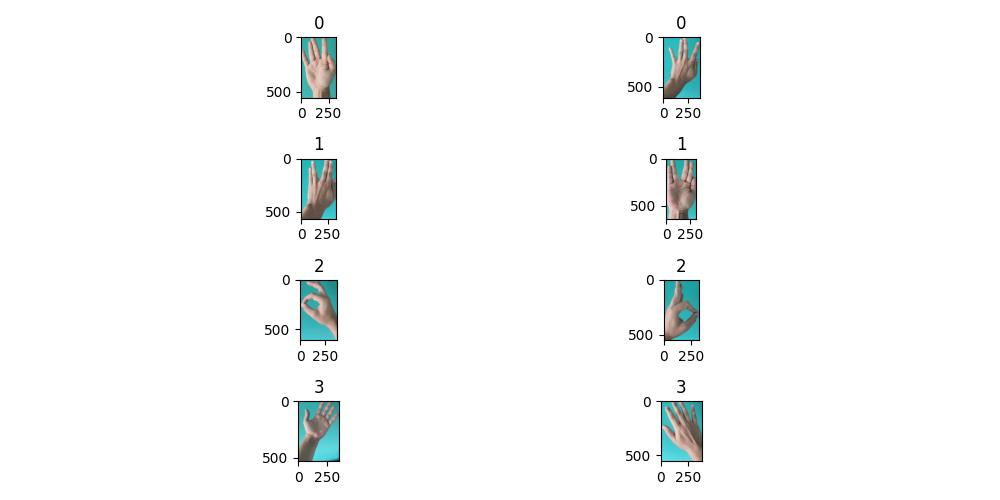
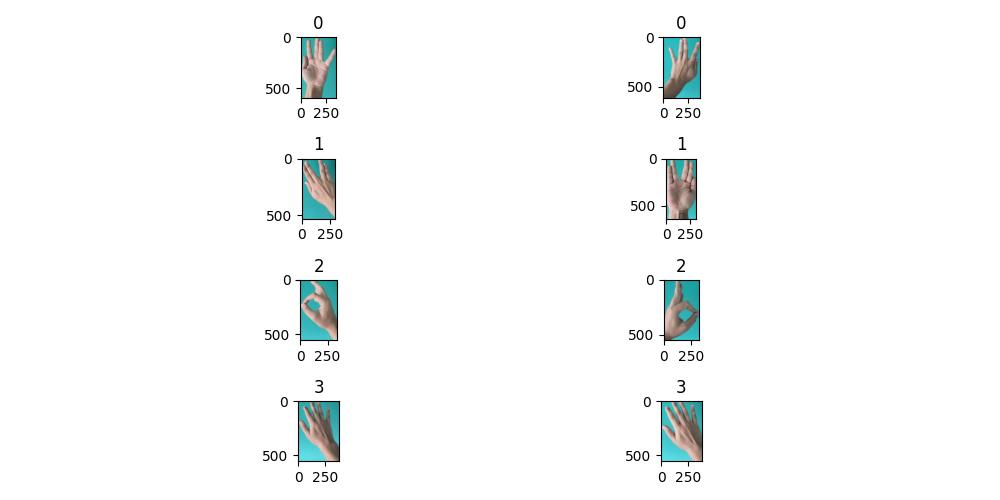
Performance: Improve SVM; Feature: KNN

diff --git a/main.py b/main.py
@@ -2,6 +2,7 @@ import src.database as database
 import src.features as features
 import src.classification as classification
 import src.helpers as helpers
+from sklearn.utils import shuffle
 
 # ___________________________________________
 # PARAMETERS
@@ -15,25 +16,35 @@ percent = 8
 # ___________________________________________
 if __name__ == '__main__':
     # get data
-    dataset_train, labels_train, dataset_test, labels_test, number_classes = database.get_train_and_test_dataset(data_dir, percent, scale_factor)
-    # database.dataset_visualisation(dataset_train, labels_train, dataset_test, labels_test, number_classes, percent)
+    dataset_train, labels_train, dataset_test, labels_test, number_classes = database.get_train_and_test_dataset(
+        data_dir, percent, scale_factor)
+    # database.dataset_visualisation(dataset_train, labels_train, dataset_test, labels_test, number_classes, percent, '', False)
 
-    # mask visualisation
+    # mask
     dataset_train_mask, dataset_test_mask = database.dataset_mask(dataset_train, dataset_test)
-    # database.dataset_visualisation(dataset_train_mask, labels_train, dataset_test_mask, labels_test, number_classes, percent, '_mask')
+    # database.dataset_visualisation(dataset_train_mask, labels_train, dataset_test_mask, labels_test, number_classes, percent, '_mask', False)
 
     # find contours and crop
-    dataset_train_mask_contour, dataset_train_contour, dataset_test_mask_contour, dataset_test_contour = database.dataset_contours(dataset_train_mask, dataset_test_mask, dataset_train, dataset_test)
-    # database.dataset_visualisation(dataset_train_mask_contour, labels_train, dataset_test_mask_contour, labels_test, number_classes, percent, '_mask_contour')
-    # database.dataset_visualisation(dataset_train_contour, labels_train, dataset_test_contour, labels_test, number_classes, percent, '_contour')
+    dataset_train_mask_contour, dataset_train_contour, dataset_test_mask_contour, dataset_test_contour = database.dataset_contours(
+        dataset_train_mask, dataset_test_mask, dataset_train, dataset_test)
+    # database.dataset_visualisation(dataset_train_mask_contour, labels_train, dataset_test_mask_contour, labels_test, number_classes, percent, '_mask_contour', False)
+    # database.dataset_visualisation(dataset_train_contour, labels_train, dataset_test_contour, labels_test, number_classes, percent, '_contour', False)
 
     # compute HOG on dataset train original cropped
-    width, height = helpers.get_dimensions_for_resize(dataset_train_contour, dataset_test_contour)
-    train_features, train_images_hog = features.extract_features_hog(dataset_train_contour, width, height, False)
-    test_features, test_images_hog = features.extract_features_hog(dataset_test_contour, width, height, False)
+    # width, height = helpers.get_dimensions_for_resize(dataset_train_contour, dataset_test_contour)
+    width, height = 128, 256
+    train_features, train_images_hog = features.extract_features_hog(dataset_train_mask_contour, width, height, False)
+    test_features, test_images_hog = features.extract_features_hog(dataset_test_mask_contour, width, height, False)
+
+    # random data
+    train_features, labels_train = shuffle(train_features, labels_train)
+    test_features, labels_test = shuffle(test_features, labels_test)
 
     # classification with SVM
-    clf = classification.svm_classification(train_features, labels_train)
+    classification.svm_classification(train_features, labels_train, test_features, labels_test)
 
-    # prediction
-    classification.prediction(clf, test_features, labels_test)
+    # classification with KNN
+    classification.knn_classification(train_features, labels_train, test_features, labels_test)
+
+    # classification with K Means
+    classification.kmeans_classification(train_features, labels_train, test_features, labels_test)

diff --git a/src/classification.py b/src/classification.py
@@ -1,26 +1,90 @@
 from sklearn import svm
-from sklearn.metrics import accuracy_score
+from sklearn.metrics import accuracy_score, confusion_matrix, ConfusionMatrixDisplay
 import numpy as np
+from sklearn.neighbors import KNeighborsClassifier
+import matplotlib.pyplot as plt
+from sklearn.cluster import KMeans
 
 
-def svm_classification(train_features, labels_train):
+def svm_classification(train_features, labels_train, test_features, labels_test):
     # set parameters for SWM
-    clf = svm.SVC(C=1, kernel='rbf', verbose=True)
+    clf = svm.SVC(C=1, kernel='rbf', verbose=False, gamma='scale')
 
     # train step
     clf.fit(train_features, labels_train)
 
-    # return clf
-    print('SVM classification done')
-    return clf
-
-
-def prediction(clf, test_features, labels_test):
+    # prediction
     predictions = clf.predict(test_features)
 
     acc = accuracy_score(labels_test, predictions)
+    print('Prediction accuracy SVM:', acc * 100, '%')
 
-    print('Prediction accuracy:', acc * 100, '%')
-    return predictions, acc
+    # confusion matrix display
+    cmx = confusion_matrix(labels_test, predictions, normalize='true')
+    disp = ConfusionMatrixDisplay(confusion_matrix=cmx, display_labels=[0, 1, 2, 3])
 
-# + NN
+    fig, ax = plt.subplots(figsize=(10, 10))
+    fig.suptitle('Confusion matrix', fontsize=20)
+    plt.xlabel('True label', fontsize=12)
+    plt.ylabel('Predicted label', fontsize=12)
+    disp.plot(ax=ax)
+    # plt.show()
+    plt.savefig('results/confusion-matrix-svm.png')
+
+    print('SVM classification done')
+
+
+def knn_classification(train_features, labels_train, test_features, labels_test):
+    # KNN
+    classifier = KNeighborsClassifier(n_neighbors=5, metric='minkowski', p=2, algorithm='brute', weights='uniform')
+    classifier.fit(train_features, labels_train)
+
+    # predict
+    predictions = classifier.predict(test_features)
+
+    acc = accuracy_score(labels_test, predictions)
+    print('Prediction accuracy KNN:', acc * 100, '%')
+
+    # confusion matrix display
+    cmx = confusion_matrix(labels_test, predictions, normalize='true')
+    disp = ConfusionMatrixDisplay(confusion_matrix=cmx, display_labels=[0, 1, 2, 3])
+
+    fig, ax = plt.subplots(figsize=(10, 10))
+    fig.suptitle('Confusion matrix', fontsize=20)
+    plt.xlabel('True label', fontsize=12)
+    plt.ylabel('Predicted label', fontsize=12)
+    disp.plot(ax=ax)
+    # plt.show()
+    plt.savefig('results/confusion-matrix-knn.png')
+
+    print('KNN classification done')
+
+
+def kmeans_classification(train_features, labels_train, test_features, labels_test):
+    # K Means
+    classifier = KMeans(n_clusters=4, n_init=3, algorithm='lloyd', verbose=False)
+    classifier.fit(train_features)
+
+    # predict train & test
+    predictions_train = classifier.predict(train_features)
+    predictions_test = classifier.predict(test_features)
+
+    acc = accuracy_score(labels_train, predictions_train)
+    print('Prediction accuracy K Means (train):', acc * 100, '%')
+
+    acc = accuracy_score(labels_test, predictions_test)
+    print('Prediction accuracy K Means (test):', acc * 100, '%')
+
+    # confusion matrix display
+    cmx = confusion_matrix(labels_test, predictions_test, normalize='true')
+    disp = ConfusionMatrixDisplay(confusion_matrix=cmx, display_labels=[0, 1, 2, 3])
+
+    fig, ax = plt.subplots(figsize=(10, 10))
+    fig.suptitle('Confusion matrix', fontsize=20)
+    plt.xlabel('True label', fontsize=12)
+    plt.ylabel('Predicted label', fontsize=12)
+    disp.plot(ax=ax)
+    # plt.show()
+    plt.savefig('results/confusion-matrix-kmeans.png')
+
+    print('K Means classification done')

diff --git a/src/features.py b/src/features.py
@@ -3,6 +3,7 @@ from skimage import exposure
 import matplotlib.pyplot as plt
 from skimage.transform import resize
 
+
 def extract_features_hog(dataset, width, height, example=False):
     images_hog = []
     features = []
@@ -12,8 +13,8 @@ def extract_features_hog(dataset, width, height, example=False):
         # set same dimensions and HOG will return same dimension of features
         image = resize(image, [height, width])
 
-        fd, hog_image = hog(image, orientations=9, pixels_per_cell=(8, 8),
-                            cells_per_block=(2, 2), visualize=True, channel_axis=-1)
+        fd, hog_image = hog(image, orientations=8, pixels_per_cell=(4, 4),
+                            cells_per_block=(2, 2), visualize=True) #, channel_axis=-1
 
         images_hog.append(hog_image)
         features.append(fd)
@@ -23,7 +24,7 @@ def extract_features_hog(dataset, width, height, example=False):
         fig, (ax1, ax2) = plt.subplots(1, 2, figsize=(8, 4))
 
         ax1.axis('off')
-        ax1.imshow(dataset[0], cmap='gray')
+        ax1.imshow(resize(dataset[0], [height, width]), cmap='gray')
         ax1.set_title('Input image')
 
         # Rescale histogram for better display
@@ -32,7 +33,7 @@ def extract_features_hog(dataset, width, height, example=False):
         ax2.axis('off')
         ax2.imshow(hog_image_rescaled, cmap=plt.cm.gray)
         ax2.set_title('Histogram of Oriented Gradients')
-        plt.show()
+        # plt.show()
         fig.savefig('results/hog_hands_example.jpg')
 
     print('HOG done')

diff --git a/src/helpers.py b/src/helpers.py
@@ -6,7 +6,7 @@ rgb2gray = lambda img: np.uint8(0.299 * img[:, :, 0] + 0.587 * img[:, :, 1] + 0.
 
 def hand_mask(img):
     # return mask for image
-    mask = img[..., 0] > 90/255
+    mask = img[..., 0] > 90 / 255
     mask[mask > 0] = 255
 
     return mask
@@ -32,9 +32,11 @@ def hand_contour(img, img_orig):
 def crop_img(img, rect):
     return img[rect[1]:(rect[1] + rect[3]), rect[0]:(rect[0] + rect[2])]
 
+
 def get_dimensions_for_resize(dataset_train, dataset_test):
     min_w = 0
     min_h = 0
+
     for img in dataset_train:
         if np.shape(img)[1] > min_w:
             min_w = np.shape(img)[1]
@@ -45,4 +47,5 @@ def get_dimensions_for_resize(dataset_train, dataset_test):
             min_w = np.shape(img)[1]
             min_h = np.shape(img)[0]
 
+    print("Resize dims:", min_w, min_h)
     return min_w, min_h

diff --git a/src/database.py b/src/database.py
@@ -9,7 +9,7 @@ import numpy as np
 
 def get_class_by_path(path):
     # get class index based on path name
-    return path.split('/')[1].split('\\')[0]
+    return int(path.split('/')[1].split('\\')[0])
 
 
 def get_train_and_test_dataset(dataset_dir, percent, scale_factor):
@@ -19,7 +19,7 @@ def get_train_and_test_dataset(dataset_dir, percent, scale_factor):
     labels_test = []
 
     # get random indexes
-    random.seed(42) #42
+    random.seed(101)
     indexes = random.sample(range(0, 9), percent)
 
     # read all data and split in train and set based on random indexes
